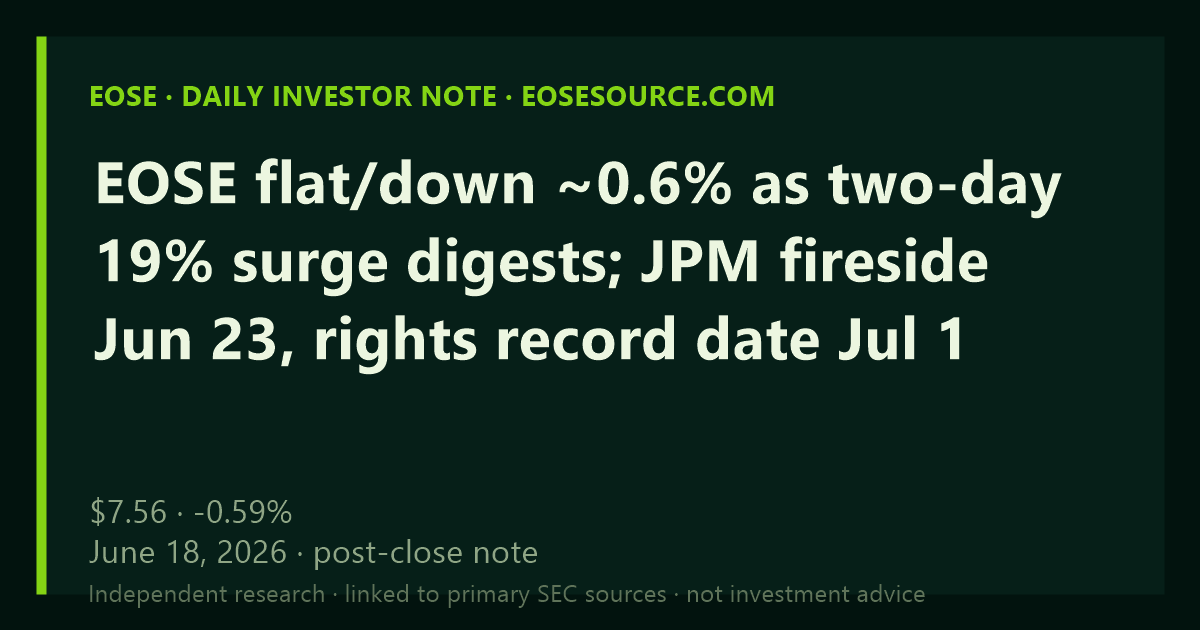
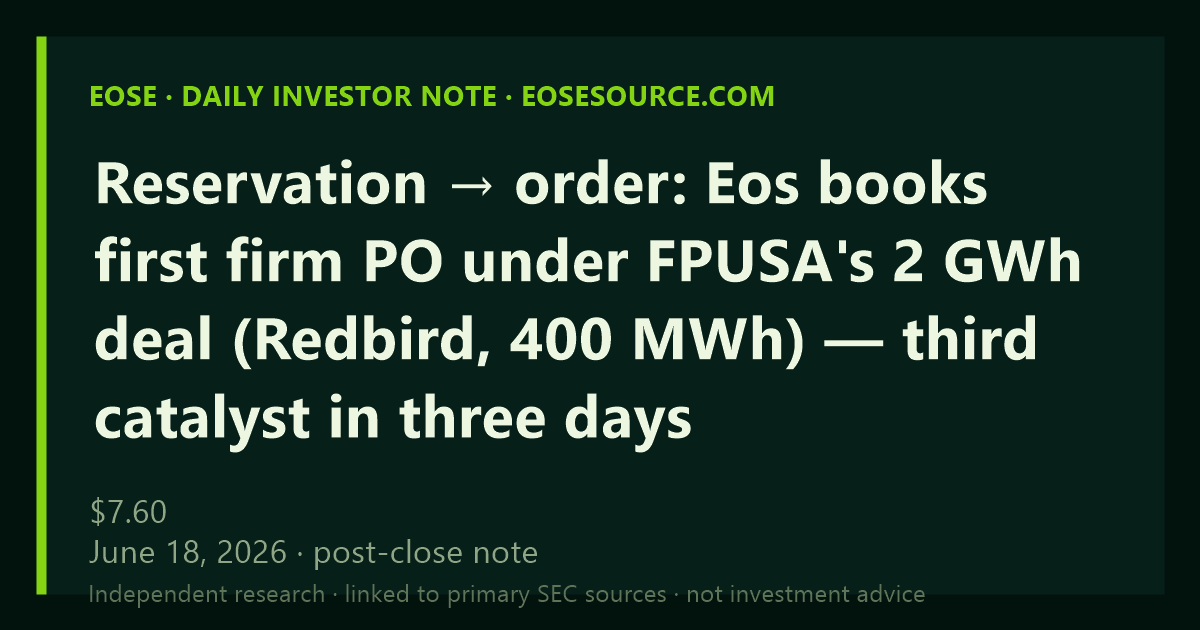
news: first firm PO under FPUSA 2 GWh reservation (Redbird, Jun 18)
The June 18 release the morning-note task missed: Eos booked its first
purchase order under Frontier Power USA's 2 GWh capacity reservation —
Redbird, 100 MW / 400 MWh (4-hr), ERCOT, Z3 — the reservation→firm-order
conversion the market was watching. Release also disclosed ~50% of a
1 GWh Bridgelink MSA fulfilled and a 12 GWh ERCOT/PJM/CAISO/MISO pipeline.
(Canonical IR link provided by maintainer; eose.com WP still lagging.)

- Daily note (§00) rewritten to lead with the first PO (the committed
  post-close note had said "no new filings or news"). Drives Today strip,
  share card, RSS, archive.
- News feed: curated first-PO item (data/manual-news.json) + rebuild.
- §03b recent history: new Jun 18 beat.
- §10 catalysts: first-PO done entry.
- §08 contracts: Redbird firm-PO row + Bridgelink 1 GWh MSA row; Bimergen
  row reworded to "converting".
- Bull scorecard: FPUSA point now leads with reservation→order proof.
- keyDates + catalysts: Q2 earnings updated to indicated Jul 29 (from the
  Aug-12 estimate), per the task's flag.

Changed region(s): [[0.0617, 0.2413, 0.925, 0.6032], [0.0617, 0.6333, 0.5858, 0.7238], [0.0925, 0.7841, 0.2467, 0.8444]]

diff --git a/js/data.js b/js/data.js
@@ -30,24 +30,24 @@ window.EOSE_DATA = {
   // Refreshed by /equity-research:morning-note via a scheduled task in Cowork.
   // session = 'pre-open' (Swedish AM, ~07:00 CEST) | 'post-close' (Swedish PM, ~22:30 CEST)
   morningNote: {
-    updatedAt: '2026-06-18T22:30:00+02:00',
+    updatedAt: '2026-06-18T23:00:00+02:00',
     session:   'post-close',
-    headline:  'EOSE flat/down ~0.6% as two-day 19% surge digests; JPM fireside Jun 23, rights record date Jul 1',
-    takeaway:  'EOSE gave back a modest ~0.6% to ~$7.56 Thursday on thin volume (~10M shares), consolidating the two-day, 19% run driven by Germany CAPAC MSA (Jun 17) and Line 2 launch (Jun 16). No new filings or news. Setup into JPM conference Jun 23 and rights record date Jul 1.',
+    headline:  'Reservation → order: Eos books first firm PO under FPUSA\'s 2 GWh deal (Redbird, 400 MWh) — third catalyst in three days',
+    takeaway:  'Eos announced its FIRST purchase order under the Frontier Power USA 2 GWh capacity reservation — the Redbird project (100 MW / 400 MWh, 4-hour, ERCOT, Z3). This is the conversion the market has been waiting to see: reservation turning into a firm order. It caps an extraordinary three-day run (rights record date → Line 2 commercial production → Germany → first FPUSA PO) and the release added two fresh data points: ~50% of a 1 GWh Bridgelink MSA already fulfilled, and a 12 GWh development pipeline across ERCOT, PJM, CAISO and MISO.',
     bullets: [
-      'Price action: ~$7.56 close (-0.6%) on ~10M shares — well below Jun 17\'s 47.6M surge vol. Back-to-back catalyst sessions (Germany MSA + Line 2 launch) drove cumulative +19%; market digesting.',
-      'Rights offering: Record date Jul 1 (13 days), distribution Jul 2. Sub price at 10–20% discount to VWAP through Jun 30. At ~$7.56 avg VWAP, effective sub price ~$6.05–6.80; dilution watch active.',
-      'JPM Energy & Natural Resources Conference Jun 23 (5 days): CEO Mastrangelo fireside with Mark Strouse — first sell-side forum post-Germany deal. Watch for CAPAC PO conversion to backlog and FPUSA pipeline update.',
-      'Germany CAPAC MSA (750 MWh, exclusive DACH through 2031): first projects in construction, late-2026 COD target. Framework only converts to reported backlog as purchase orders are issued — none booked yet.',
-      'Q2 earnings confirmed Jul 29 (vs. Aug 12 est. in key dates — manual keyDates update needed). Street watches Q2 production ramp and first FPUSA pipeline-to-revenue conversion color.'
+      'First firm PO under the FPUSA 2 GWh reservation: Redbird — 100 MW / 400 MWh (4-hour) in ERCOT, on Eos Z3. The reservation-to-order conversion is the key proof point that the FPUSA structure actually moves Eos hardware. ~$90M of demand at our $225/kWh model basis.',
+      'New disclosures in the release: ~50% of the 1 GWh Bridgelink master supply agreement already fulfilled, plus a 12 GWh development pipeline across ERCOT, PJM, CAISO and MISO — a broader FPUSA funnel than previously detailed.',
+      'Third catalyst in three sessions: rights record date (Jun 11) → Line 2 commercial production (Jun 16) → Germany/CAPAC framework (Jun 17) → first FPUSA PO (Jun 18). The two-day Germany/Line 2 surge had already lifted EOSE ~+19%.',
+      'Rights offering: record date Jul 1 (distribution Jul 2); units of stock + warrants at a ~10–20% discount to a 15–30 day VWAP. The recent rally lifts the effective subscription price — dilution math stays live for holders.',
+      'Still conspicuously absent: Ofgem\'s UK Cap & Floor Window 1 Initial Decision, guided to "Spring 2026" but not yet published as the window closes — the most overdue catalyst on the board (see §08b).',
+      'Watch next: JPM Energy & Natural Resources Conference Jun 23 (CEO Mastrangelo fireside); more FPUSA POs / backlog conversion; the rights-offering prospectus supplement; Q2 earnings (now indicated Jul 29).'
     ],
-    price:   { last: 7.56, changePct: -0.59, note: 'Stooq delayed · Jun 18 close est.' },
+    price:   { last: 7.60, changePct: null, note: 'Latest dashboard quote feed · first-PO news dated Jun 18 — see the live ticker above for the current print' },
     sources: [
-      { label: 'Germany CAPAC MSA (Jun 17)', url: 'https://www.globenewswire.com/news-release/2026/06/17/3313418/0/en/Eos-Energy-Enterprises-Establishes-Strategic-Entry-into-Germany-Through-Exclusive-Long-Duration-Storage-Partnership.html' },
-      { label: 'Line 2 commercial production (Jun 16)', url: 'https://www.globenewswire.com/news-release/2026/06/16/3312575/0/en/Eos-Energy-Enterprises-Launches-Commercial-Production-at-Second-Manufacturing-Facility.html' },
-      { label: 'Rights offering record date (Jun 11)', url: 'https://investors.eose.com/news-releases/news-release-details/eos-energy-announces-record-date-rights-offering' },
-      { label: 'StockAnalysis — EOSE overview', url: 'https://stockanalysis.com/stocks/eose/' },
-      { label: 'Stooq EOSE.US price', url: 'https://stooq.com/q/?s=eose.us' }
+      { label: 'First FPUSA purchase order — Redbird (Jun 18)', url: 'https://investors.eose.com/news-releases/news-release-details/eos-energy-enterprises-announces-first-purchase-order-under' },
+      { label: 'Germany CAPAC MSA (Jun 17)', url: 'https://www.stocktitan.net/news/EOSE/eos-energy-enterprises-establishes-strategic-entry-into-germany-mvli0yodpemn.html' },
+      { label: 'Line 2 commercial production (Jun 16)', url: 'https://www.eose.com/eos-energy-enterprises-launches-commercial-production-at-second-manufacturing-facility/' },
+      { label: 'Eos IR newsroom', url: 'https://investors.eose.com/news-releases' }
     ]
   },
 
@@ -398,8 +398,10 @@ window.EOSE_DATA = {
   contracts: [
     { customer: 'Frontier Power Ltd. (UK) — first order',  mwh: 228,    region: 'UK',       status: 'Delivering',   value: '~$51M*' },
     { customer: 'Frontier Power Ltd. (UK) — 5 GWh framework', mwh: 5000, region: 'UK',     status: 'Framework',     value: '~$1.1B*' },
-    { customer: 'Frontier Power USA — Bimergen Texas portfolio (3 ERCOT projects)', mwh: 480, region: 'USA (TX)', status: 'Firm — NTPs mid-2026', value: '~$108M*' },
+    { customer: 'Frontier Power USA — Redbird (first firm PO, ERCOT, in Bimergen portfolio)', mwh: 400, region: 'USA (TX)', status: 'Firm PO — Jun 18', value: '~$90M*' },
+    { customer: 'Frontier Power USA — Bimergen Texas portfolio (3 ERCOT projects, incl. Redbird)', mwh: 480, region: 'USA (TX)', status: 'Converting — NTPs mid-2026', value: '~$108M*' },
     { customer: 'Frontier Power USA — remaining capacity reservation',                mwh: 1520, region: 'USA',     status: 'Reservation',          value: '~$342M*'  },
+    { customer: 'Bridgelink — master supply agreement (FPUSA pipeline)',               mwh: 1000, region: 'USA',     status: '~50% fulfilled',       value: '~$225M*'  },
     { customer: 'CAPAC Energy — DACH master supply agreement (Indensity)', mwh: 750, region: 'Germany/AT/CH', status: 'Framework (MSA)', value: '~$169M*' },
     { customer: 'TURBINE-X Energy (JDA, AI data center)', mwh: '≤2000', region: 'USA', status: 'Negotiation',  value: 'TBD (JDA)' },
     { customer: 'MN8 Energy',                        mwh: '~590',  region: 'USA',     status: 'Delivering',   value: '~$133M*'  },
@@ -447,6 +449,7 @@ window.EOSE_DATA = {
     { date: 'Apr 30, 2026', event: 'CFO appointment announced: Alessandro Lagi (from Johnson Controls, prior Baker Hughes)',  status: 'Reported [Company]',     tone: 'done'   },
     { date: 'May 13, 2026', event: 'Q1 2026 earnings · Frontier Power USA formation · S-3ASR shelf filed', status: 'Reported [Company]',         tone: 'done'   },
     { date: 'May 21, 2026', event: 'FPUSA converts 480 MWh from Bimergen (3 ERCOT projects) — first deployment under the 2 GWh reservation', status: 'Reported [Counterparty]', tone: 'done' },
+    { date: 'Jun 18, 2026', event: 'First firm purchase order under FPUSA\'s 2 GWh reservation — Redbird (100 MW / 400 MWh, ERCOT, Z3); release also cites ~50% of a 1 GWh Bridgelink MSA fulfilled + 12 GWh dev pipeline (ERCOT/PJM/CAISO/MISO)', status: 'Reported [Company]', tone: 'done' },
     { date: 'Mid-2026',     event: 'Notices-to-Proceed (NTPs) on the 480 MWh Texas portfolio',              status: 'Watch [Counterparty]',     tone: 'soon'   },
     { date: 'Jun 8, 2026',  event: 'Lagi CFO effective date · Kroeker returns to CCO-only role',           status: 'Imminent [Company]',         tone: 'soon'   },
     { date: 'Spring 2026',  event: 'Ofgem publishes Initial Decision List for LDES Cap & Floor Window 1 (UK)', status: 'Watch [Regulator]',        tone: 'soon'   },
@@ -456,7 +459,7 @@ window.EOSE_DATA = {
     { date: 'Jul 1, 2026',  event: 'Rights offering record date (5 pm ET; announced Jun 11) — rights distributed Jul 2; units of stock + warrants at ~10–20% VWAP discount; exact ratio/price in the prospectus supplement', status: 'Announced [Company]', tone: 'soon' },
     { date: 'Q2 2026',      event: 'Frontier Power USA closing conditions (Cerberus warrants + controlling JV equity)',      status: 'Watch [Company]',            tone: 'soon'   },
     { date: 'Summer 2026',  event: 'Ofgem final cap & floor awards (Window 1) — Frontier UK\'s 11 GWh of Eos-tech projects either awarded the revenue floor or not', status: 'Catalyst [Regulator]', tone: 'soon' },
-    { date: '~Aug 2026',    event: 'Q2 2026 earnings release (estimated cadence)',                         status: 'Pending',                    tone: 'future' },
+    { date: 'Jul 29, 2026', event: 'Q2 2026 earnings release (indicated)',                                  status: 'Scheduled [Company]',        tone: 'soon'   },
     { date: 'Q3 2026',      event: 'NYSERDA Bulk Storage Program ISCRFP25-1 awards (Eos qualifies for 8+ hr tier)', status: 'Catalyst [Regulator]', tone: 'soon' },
     { date: 'YE 2026',      event: 'Cerberus equity lock-up expiration (extended through year-end 2026)',  status: 'Confirmed [Company]',        tone: 'live'   },
     { date: 'YE 2026',      event: 'Treasury safe-harbor tables for 45X FEOC scoring (sets credit magnitude)', status: 'Watch [Regulator]',    tone: 'future' },
@@ -488,9 +491,9 @@ window.EOSE_DATA = {
     { date: '2026-07-02', short: 'Rights distribution', est: false,
       label: 'Rights distribution date',
       detail: 'Subscription rights distributed to eligible holders; final ratio, price and transferability are set in the prospectus supplement at offering commencement.' },
-    { date: '2026-08-12', short: 'Q2 earnings (est.)',  est: true,
-      label: 'Q2 2026 earnings release (estimated cadence)',
-      detail: 'Estimated from prior reporting cadence (Q1 reported May 13); the actual date has not been announced.' },
+    { date: '2026-07-29', short: 'Q2 earnings',  est: false,
+      label: 'Q2 2026 earnings release',
+      detail: 'Indicated for July 29, 2026. Street will watch the Line 1+2 production ramp and the first FPUSA reservation-to-revenue conversion.' },
     { date: '2026-09-22', short: 'Ofgem final awards',  est: true,
       label: 'Ofgem final cap & floor awards — Window 1',
       detail: 'End of the regulator\'s stated Summer 2026 window (estimate). Decides the regulated revenue floor for Frontier UK\'s Eos-tech pipeline.' },
@@ -924,7 +927,7 @@ window.EOSE_DATA = {
     bull: [
       { point: 'Q1\'26 revenue +445% YoY with adj. EPS beating consensus by 154 ppt ($0.12 vs −$0.22). Two consecutive quarters now exceed full FY25.', src: 'Q1\'26 8-K' },
       { point: 'Pipeline $24.3B (+56% YoY); backlog $644.6M; post-quarter +2 GWh Frontier USA reservation. Demand isn\'t the constraint.', src: '10-Q + Frontier 8-K' },
-      { point: 'Frontier USA executing fast: 480 MWh (24% of the 2 GWh reservation) converted from "reservation" to "firm projects" via the Bimergen acquisition on May 21 — 8 days after FPUSA\'s formation. Three ERCOT projects, NTPs mid-2026, Z3 + Ariel Green TPI deployed.', src: 'May 21 Yahoo Finance / Bimergen release' },
+      { point: 'Frontier USA executing fast — and now CONVERTING: 480 MWh acquired via Bimergen (May 21), then on Jun 18 the first firm purchase order under the 2 GWh reservation (Redbird, 100 MW / 400 MWh, ERCOT, Z3). Reservation→order is the proof the vehicle pulls hardware. Release also cited ~50% of a 1 GWh Bridgelink MSA fulfilled + a 12 GWh ERCOT/PJM/CAISO/MISO pipeline.', src: 'Jun 18 first-PO release · May 21 Bimergen release' },
       { point: 'UK pipeline: Frontier Power Ltd. has ~11 GWh in Ofgem Cap & Floor Window 1 second-round evaluation, all using Eos Z3 tech. Approval is pending — Initial Decision Spring 2026, final awards Summer 2026. If awarded, the regulated revenue floor de-risks project finance.', src: 'Ofgem / Modo Energy' },
       { point: 'Cerberus is doubling down on BOTH sides of the Atlantic: $100M into Frontier USA + £159M earlier into Frontier UK. Lock-up extended through YE 2026.', src: 'Frontier releases · PwC UK' },
       { point: 'Execution on schedule: Line 2 launched commercial production Jun 16, 2026 — ahead of the end-Q2 target — doubling the manufacturing base toward ~4 GWh/yr. Directly rebuts the "can\'t scale manufacturing" bear/lawsuit narrative. Margin trajectory backs it: GM −78% Q1\'26, +157 ppt YoY, +16 ppt sequentially; cube deliveries +5.7×.', src: 'Jun 16 Line 2 release · Q1\'26 release' },
@@ -1120,6 +1123,12 @@ window.EOSE_DATA = {
 
   // ────────── NEW: Recent history (context for cold readers) ──────────
   recentHistory: [
+    {
+      date:  '2026-06-18',
+      title: 'First firm purchase order under FPUSA\'s 2 GWh reservation — Redbird (400 MWh)',
+      body:  'Eos booked its FIRST purchase order under the Frontier Power USA 2 GWh capacity reservation: the Redbird project — 100 MW / 400 MWh, four-hour duration, in ERCOT (Texas), on Eos Z3. This is the reservation-to-firm-order conversion the market had been waiting for — the proof that the FPUSA vehicle actually pulls Eos hardware (~$90M at our $225/kWh model basis). The release also disclosed, for the first time at this granularity, that ~50% of a 1 GWh Bridgelink master supply agreement is already fulfilled and that FPUSA is advancing a 12 GWh development pipeline across ERCOT, PJM, CAISO and MISO. Fourth catalyst in a remarkable week.',
+      url:   'https://investors.eose.com/news-releases/news-release-details/eos-energy-enterprises-announces-first-purchase-order-under'
+    },
     {
       date:  '2026-06-17',
       title: 'Germany/DACH entry: exclusive CAPAC Indensity framework — capping a ~19% two-day surge',

diff --git a/index.html b/index.html
@@ -26,11 +26,11 @@
   <meta property="og:title" content="Eos Energy (EOSE) Investor Dashboard — Independent Research" />
   <meta property="og:description" content="Independent EOSE investor dashboard: quarterly financials, bull/bear thesis, Frontier Power USA JV, pipeline data, insider trades, and regulatory catalysts — all linked to primary SEC sources." />
   <meta property="og:url" content="https://eosesource.com/" />
-  <meta property="og:image" content="https://eosesource.com/assets/og-daily.png?v=202606182030" />
-  <meta property="og:image:alt" content="EOSE flat/down ~0.6% as two-day 19% surge digests; JPM fireside Jun 23, rights record date Jul 1" />
+  <meta property="og:image" content="https://eosesource.com/assets/og-daily.png?v=202606182100" />
+  <meta property="og:image:alt" content="Reservation → order: Eos books first firm PO under FPUSA's 2 GWh deal (Redbird, 400 MWh) — third catalyst in three days" />
   <meta property="og:locale" content="en_US" />
   <meta property="article:published_time" content="2026-05-13T00:00:00Z" />
-  <meta property="article:modified_time" content="2026-06-18T20:30:00.000Z" />
+  <meta property="article:modified_time" content="2026-06-18T21:00:00.000Z" />
   <meta property="article:section" content="Investing" />
   <meta property="article:tag" content="EOSE" />
   <meta property="article:tag" content="Eos Energy Enterprises" />
@@ -40,8 +40,8 @@
   <meta name="twitter:card" content="summary_large_image" />
   <meta name="twitter:title" content="Eos Energy (EOSE) Investor Dashboard — Independent Research" />
   <meta name="twitter:description" content="Bull/bear thesis, Frontier JV, pipeline, insider trades, regulatory catalysts — all linked to primary SEC sources. Not investment advice." />
-  <meta name="twitter:image" content="https://eosesource.com/assets/og-daily.png?v=202606182030" />
-  <meta name="twitter:image:alt" content="EOSE flat/down ~0.6% as two-day 19% surge digests; JPM fireside Jun 23, rights record date Jul 1" />
+  <meta name="twitter:image" content="https://eosesource.com/assets/og-daily.png?v=202606182100" />
+  <meta name="twitter:image:alt" content="Reservation → order: Eos books first firm PO under FPUSA's 2 GWh deal (Redbird, 400 MWh) — third catalyst in three days" />
 
   <!-- ============ Structured data (JSON-LD) ============ -->
   <script type="application/ld+json">
@@ -64,7 +64,7 @@
         "headline": "Eos Energy (EOSE) Investor Dashboard — Independent Research",
         "description": "Independent investor dashboard covering Eos Energy Enterprises (NASDAQ: EOSE): quarterly financials, capital structure, Frontier Power USA JV, pipeline data, insider trades, regulatory catalysts, and a balanced bull/bear case — all linked to primary SEC sources.",
         "datePublished": "2026-05-13T00:00:00Z",
-        "dateModified": "2026-06-18T20:30:00.000Z",
+        "dateModified": "2026-06-18T21:00:00.000Z",
         "inLanguage": "en-US",
         "image": "https://eosesource.com/assets/eose-logo.png",
         "author": {
@@ -309,7 +309,7 @@
     <div class="today" id="today" role="region" aria-label="Today at a glance">
       <div class="today__note">
         <span class="today__tag">Today</span>
-        <a class="today__headline" href="#daily-note" data-today-headline>EOSE flat/down ~0.6% as two-day 19% surge digests; JPM fireside Jun 23, rights record date Jul 1</a>
+        <a class="today__headline" href="#daily-note" data-today-headline>Reservation → order: Eos books first firm PO under FPUSA's 2 GWh deal (Redbird, 400 MWh) — third catalyst in three days</a>
       </div>
       <div class="today__chips" data-today-chips></div>
       <button class="cat__btn" data-ics-download title="Download the upcoming EOSE key dates as a calendar (.ics) file — estimated windows are marked">📅 Calendar</button>
@@ -361,22 +361,23 @@
       <div class="section__head">
         <div>
           <div class="section__num">00 · DAILY NOTE · AUTO-REFRESHED TWICE DAILY</div>
-          <h2 data-mn-headline>EOSE flat/down ~0.6% as two-day 19% surge digests; JPM fireside Jun 23, rights record date Jul 1</h2>
+          <h2 data-mn-headline>Reservation → order: Eos books first firm PO under FPUSA's 2 GWh deal (Redbird, 400 MWh) — third catalyst in three days</h2>
           <p><span data-mn-session>Post-close run · US session wrap</span> · <a href="notes.html" style="color:var(--accent);text-decoration:underline">📚 Past notes</a> · <a href="note-feed.xml" target="_blank" rel="noopener" style="color:var(--accent);text-decoration:underline">🔖 Subscribe via RSS</a></p>
         </div>
-        <div class="right" data-mn-meta style="font-size:12px;color:var(--fg-3)">Updated 2026-06-18 22:30:00 (Stockholm)</div>
+        <div class="right" data-mn-meta style="font-size:12px;color:var(--fg-3)">Updated 2026-06-18 23:00:00 (Stockholm)</div>
       </div>
       <div class="card" style="border-left:3px solid var(--accent)">
-        <p style="font-size:14.5px;line-height:1.65;color:var(--fg-0);margin:0 0 8px" data-mn-takeaway>EOSE gave back a modest ~0.6% to ~$7.56 Thursday on thin volume (~10M shares), consolidating the two-day, 19% run driven by Germany CAPAC MSA (Jun 17) and Line 2 launch (Jun 16). No new filings or news. Setup into JPM conference Jun 23 and rights record date Jul 1.</p>
-        <div class="mn-price" data-mn-price style="font-size:13px;color:var(--fg-2);margin:0 0 12px"><b>$7.56</b> <span class="neg">-0.59%</span> · <span style="color:var(--fg-3)">Stooq delayed · Jun 18 close est.</span></div>
+        <p style="font-size:14.5px;line-height:1.65;color:var(--fg-0);margin:0 0 8px" data-mn-takeaway>Eos announced its FIRST purchase order under the Frontier Power USA 2 GWh capacity reservation — the Redbird project (100 MW / 400 MWh, 4-hour, ERCOT, Z3). This is the conversion the market has been waiting to see: reservation turning into a firm order. It caps an extraordinary three-day run (rights record date → Line 2 commercial production → Germany → first FPUSA PO) and the release added two fresh data points: ~50% of a 1 GWh Bridgelink MSA already fulfilled, and a 12 GWh development pipeline across ERCOT, PJM, CAISO and MISO.</p>
+        <div class="mn-price" data-mn-price style="font-size:13px;color:var(--fg-2);margin:0 0 12px"><b>$7.60</b> <span class="pos"></span> · <span style="color:var(--fg-3)">Latest dashboard quote feed · first-PO news dated Jun 18 — see the live ticker above for the current print</span></div>
         <ul data-mn-bullets style="padding-left:18px;font-size:13.5px;line-height:1.65;color:var(--fg-1);margin:0;display:grid;gap:8px">
-          <li>Price action: ~$7.56 close (-0.6%) on ~10M shares — well below Jun 17's 47.6M surge vol. Back-to-back catalyst sessions (Germany MSA + Line 2 launch) drove cumulative +19%; market digesting.</li>
-          <li>Rights offering: Record date Jul 1 (13 days), distribution Jul 2. Sub price at 10–20% discount to VWAP through Jun 30. At ~$7.56 avg VWAP, effective sub price ~$6.05–6.80; dilution watch active.</li>
-          <li>JPM Energy & Natural Resources Conference Jun 23 (5 days): CEO Mastrangelo fireside with Mark Strouse — first sell-side forum post-Germany deal. Watch for CAPAC PO conversion to backlog and FPUSA pipeline update.</li>
-          <li>Germany CAPAC MSA (750 MWh, exclusive DACH through 2031): first projects in construction, late-2026 COD target. Framework only converts to reported backlog as purchase orders are issued — none booked yet.</li>
-          <li>Q2 earnings confirmed Jul 29 (vs. Aug 12 est. in key dates — manual keyDates update needed). Street watches Q2 production ramp and first FPUSA pipeline-to-revenue conversion color.</li>
+          <li>First firm PO under the FPUSA 2 GWh reservation: Redbird — 100 MW / 400 MWh (4-hour) in ERCOT, on Eos Z3. The reservation-to-order conversion is the key proof point that the FPUSA structure actually moves Eos hardware. ~$90M of demand at our $225/kWh model basis.</li>
+          <li>New disclosures in the release: ~50% of the 1 GWh Bridgelink master supply agreement already fulfilled, plus a 12 GWh development pipeline across ERCOT, PJM, CAISO and MISO — a broader FPUSA funnel than previously detailed.</li>
+          <li>Third catalyst in three sessions: rights record date (Jun 11) → Line 2 commercial production (Jun 16) → Germany/CAPAC framework (Jun 17) → first FPUSA PO (Jun 18). The two-day Germany/Line 2 surge had already lifted EOSE ~+19%.</li>
+          <li>Rights offering: record date Jul 1 (distribution Jul 2); units of stock + warrants at a ~10–20% discount to a 15–30 day VWAP. The recent rally lifts the effective subscription price — dilution math stays live for holders.</li>
+          <li>Still conspicuously absent: Ofgem's UK Cap & Floor Window 1 Initial Decision, guided to "Spring 2026" but not yet published as the window closes — the most overdue catalyst on the board (see §08b).</li>
+          <li>Watch next: JPM Energy & Natural Resources Conference Jun 23 (CEO Mastrangelo fireside); more FPUSA POs / backlog conversion; the rights-offering prospectus supplement; Q2 earnings (now indicated Jul 29).</li>
         </ul>
-        <p data-mn-sources style="font-size:12px;color:var(--fg-3);margin-top:14px;border-top:1px solid var(--line-1);padding-top:10px">Sources: <a href="https://www.globenewswire.com/news-release/2026/06/17/3313418/0/en/Eos-Energy-Enterprises-Establishes-Strategic-Entry-into-Germany-Through-Exclusive-Long-Duration-Storage-Partnership.html" target="_blank" rel="noopener" style="color:var(--accent);text-decoration:underline">Germany CAPAC MSA (Jun 17)</a> · <a href="https://www.globenewswire.com/news-release/2026/06/16/3312575/0/en/Eos-Energy-Enterprises-Launches-Commercial-Production-at-Second-Manufacturing-Facility.html" target="_blank" rel="noopener" style="color:var(--accent);text-decoration:underline">Line 2 commercial production (Jun 16)</a> · <a href="https://investors.eose.com/news-releases/news-release-details/eos-energy-announces-record-date-rights-offering" target="_blank" rel="noopener" style="color:var(--accent);text-decoration:underline">Rights offering record date (Jun 11)</a> · <a href="https://stockanalysis.com/stocks/eose/" target="_blank" rel="noopener" style="color:var(--accent);text-decoration:underline">StockAnalysis — EOSE overview</a> · <a href="https://stooq.com/q/?s=eose.us" target="_blank" rel="noopener" style="color:var(--accent);text-decoration:underline">Stooq EOSE.US price</a></p>
+        <p data-mn-sources style="font-size:12px;color:var(--fg-3);margin-top:14px;border-top:1px solid var(--line-1);padding-top:10px">Sources: <a href="https://investors.eose.com/news-releases/news-release-details/eos-energy-enterprises-announces-first-purchase-order-under" target="_blank" rel="noopener" style="color:var(--accent);text-decoration:underline">First FPUSA purchase order — Redbird (Jun 18)</a> · <a href="https://www.stocktitan.net/news/EOSE/eos-energy-enterprises-establishes-strategic-entry-into-germany-mvli0yodpemn.html" target="_blank" rel="noopener" style="color:var(--accent);text-decoration:underline">Germany CAPAC MSA (Jun 17)</a> · <a href="https://www.eose.com/eos-energy-enterprises-launches-commercial-production-at-second-manufacturing-facility/" target="_blank" rel="noopener" style="color:var(--accent);text-decoration:underline">Line 2 commercial production (Jun 16)</a> · <a href="https://investors.eose.com/news-releases" target="_blank" rel="noopener" style="color:var(--accent);text-decoration:underline">Eos IR newsroom</a></p>
       </div>
       <!-- mn:static:end -->
     </section>

diff --git a/notes.html b/notes.html
@@ -14,7 +14,7 @@
   <meta property="og:title" content="EOSE Daily Note Archive — Independent Investor Notes" />
   <meta property="og:url" content="https://eosesource.com/notes.html" />
   <meta property="og:image" content="https://eosesource.com/assets/og-daily.png" />
-  <meta property="article:modified_time" content="2026-06-18T22:30:00+02:00" />
+  <meta property="article:modified_time" content="2026-06-18T23:00:00+02:00" />
   <link rel="preconnect" href="https://fonts.googleapis.com" />
   <link rel="preconnect" href="https://fonts.gstatic.com" crossorigin />
   <link rel="stylesheet" href="https://fonts.googleapis.com/css2?family=Inter:wght@400;500;600;700&family=JetBrains+Mono:wght@400;500;600&family=Space+Grotesk:wght@500;600;700&display=swap" />
@@ -27,9 +27,24 @@
         <div>
           <div class="section__num">EOSESOURCE.COM · DAILY NOTE ARCHIVE</div>
           <h1 style="font-size:clamp(24px,3vw,32px);letter-spacing:-0.02em;line-height:1.15;margin:6px 0 10px">EOSE Daily Investor Note — Archive</h1>
-          <p style="max-width:640px">The last 5 editions of the twice-daily note from the <a href="./" style="color:var(--accent);text-decoration:underline">EOSE investor dashboard</a>, newest first. Auto-refreshed pre-open and post-close on US trading days. <a href="note-feed.xml" target="_blank" rel="noopener" style="color:var(--accent);text-decoration:underline">🔖 Subscribe via RSS</a>. Independent research — <strong>not investment advice</strong>; verify against primary SEC sources linked on the dashboard.</p>
+          <p style="max-width:640px">The last 6 editions of the twice-daily note from the <a href="./" style="color:var(--accent);text-decoration:underline">EOSE investor dashboard</a>, newest first. Auto-refreshed pre-open and post-close on US trading days. <a href="note-feed.xml" target="_blank" rel="noopener" style="color:var(--accent);text-decoration:underline">🔖 Subscribe via RSS</a>. Independent research — <strong>not investment advice</strong>; verify against primary SEC sources linked on the dashboard.</p>
         </div>
       </div>
+
+      <article class="card" id="note-2026-06-18T2300" style="margin-bottom:14px;border-left:3px solid var(--accent)">
+        <div style="font-size:11.5px;color:var(--fg-3);text-transform:uppercase;letter-spacing:.08em;font-weight:700">2026-06-18 23:00:00 (Stockholm) · Post-close run · US session wrap</div>
+        <h2 style="font-size:18px;line-height:1.35;margin:8px 0 10px">Reservation → order: Eos books first firm PO under FPUSA's 2 GWh deal (Redbird, 400 MWh) — third catalyst in three days</h2>
+        <p style="font-size:14px;line-height:1.6;color:var(--fg-0);margin:0">Eos announced its FIRST purchase order under the Frontier Power USA 2 GWh capacity reservation — the Redbird project (100 MW / 400 MWh, 4-hour, ERCOT, Z3). This is the conversion the market has been waiting to see: reservation turning into a firm order. It caps an extraordinary three-day run (rights record date → Line 2 commercial production → Germany → first FPUSA PO) and the release added two fresh data points: ~50% of a 1 GWh Bridgelink MSA already fulfilled, and a 12 GWh development pipeline across ERCOT, PJM, CAISO and MISO.</p>
+        <div class="mn-price" style="font-size:13px;color:var(--fg-2);margin:10px 0 0"><b>$7.60</b> <span class="pos"></span> · <span style="color:var(--fg-3)">Latest dashboard quote feed · first-PO news dated Jun 18 — see the live ticker above for the current print</span></div>
+        <ul style="padding-left:18px;font-size:13.5px;line-height:1.65;color:var(--fg-1);margin:12px 0 0;display:grid;gap:8px">
+          <li>First firm PO under the FPUSA 2 GWh reservation: Redbird — 100 MW / 400 MWh (4-hour) in ERCOT, on Eos Z3. The reservation-to-order conversion is the key proof point that the FPUSA structure actually moves Eos hardware. ~$90M of demand at our $225/kWh model basis.</li>
+          <li>New disclosures in the release: ~50% of the 1 GWh Bridgelink master supply agreement already fulfilled, plus a 12 GWh development pipeline across ERCOT, PJM, CAISO and MISO — a broader FPUSA funnel than previously detailed.</li>
+          <li>Third catalyst in three sessions: rights record date (Jun 11) → Line 2 commercial production (Jun 16) → Germany/CAPAC framework (Jun 17) → first FPUSA PO (Jun 18). The two-day Germany/Line 2 surge had already lifted EOSE ~+19%.</li>
+          <li>Rights offering: record date Jul 1 (distribution Jul 2); units of stock + warrants at a ~10–20% discount to a 15–30 day VWAP. The recent rally lifts the effective subscription price — dilution math stays live for holders.</li>
+          <li>Still conspicuously absent: Ofgem's UK Cap & Floor Window 1 Initial Decision, guided to "Spring 2026" but not yet published as the window closes — the most overdue catalyst on the board (see §08b).</li>
+          <li>Watch next: JPM Energy & Natural Resources Conference Jun 23 (CEO Mastrangelo fireside); more FPUSA POs / backlog conversion; the rights-offering prospectus supplement; Q2 earnings (now indicated Jul 29).</li>
+        </ul>
+      </article>
 
       <article class="card" id="note-2026-06-18T2230" style="margin-bottom:14px;border-left:3px solid var(--accent)">
         <div style="font-size:11.5px;color:var(--fg-3);text-transform:uppercase;letter-spacing:.08em;font-weight:700">2026-06-18 22:30:00 (Stockholm) · Post-close run · US session wrap</div>